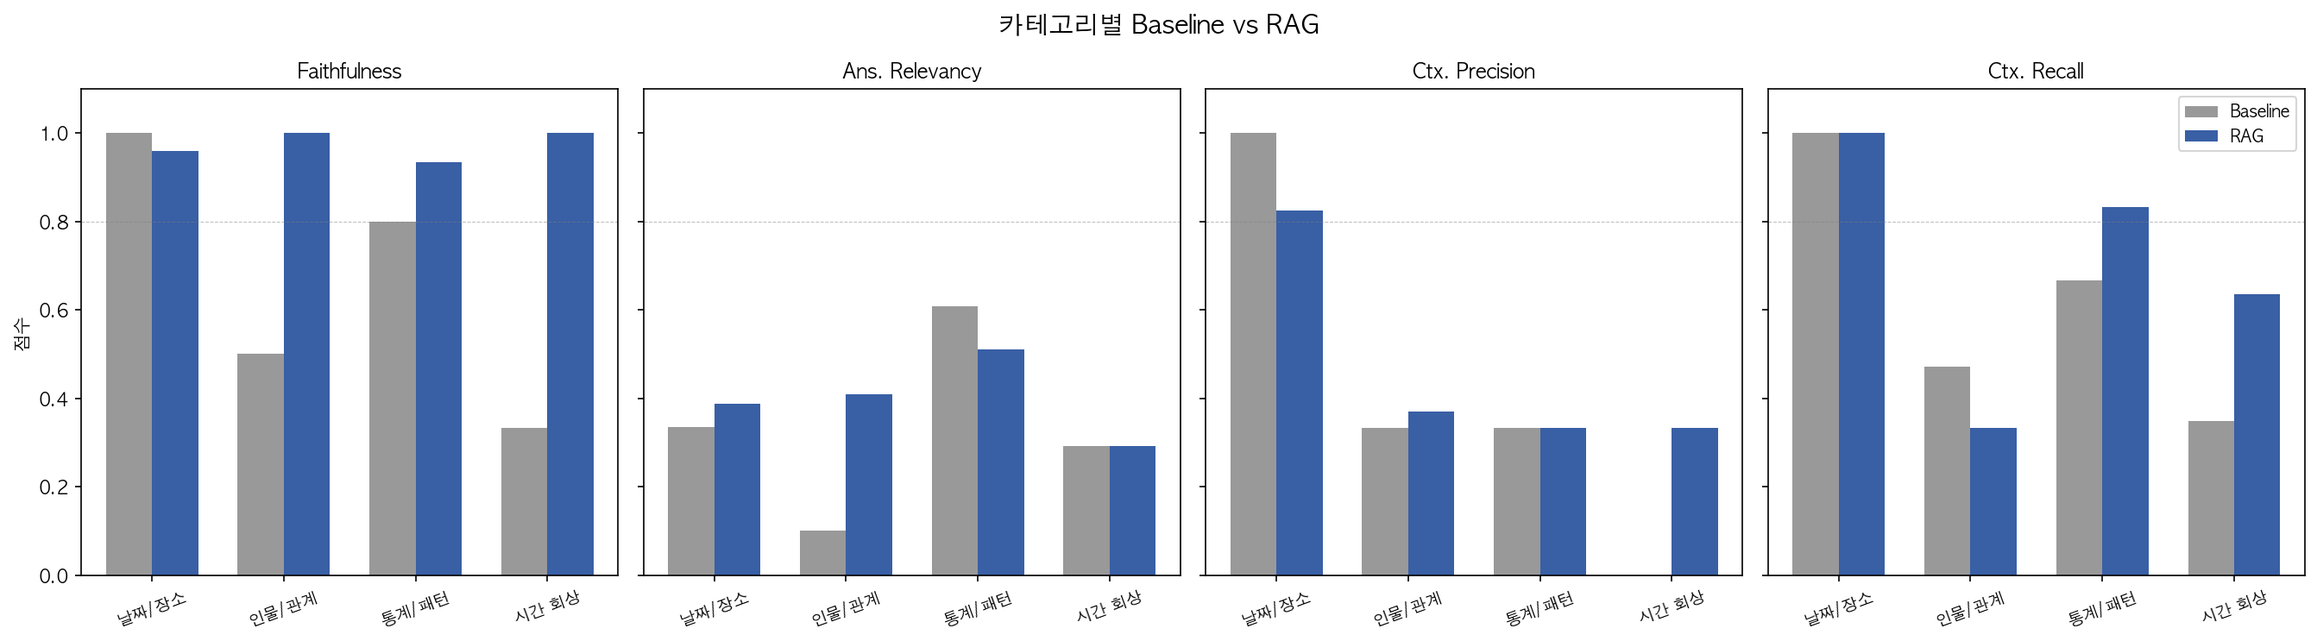
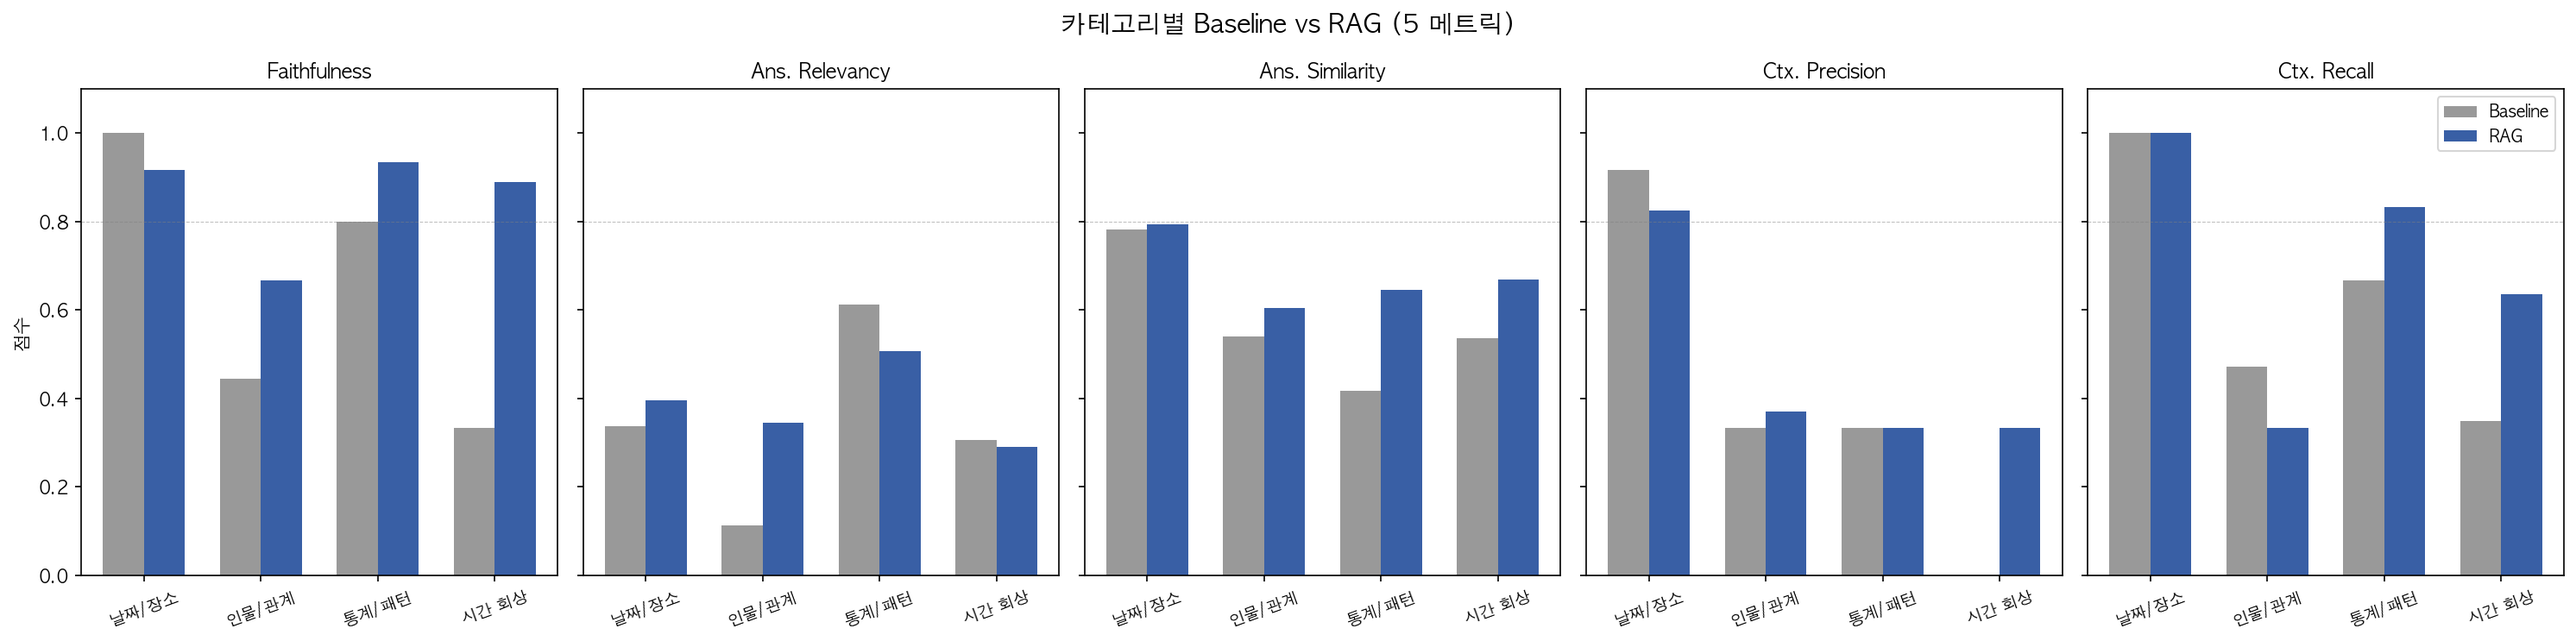
RAGAS 개선

diff --git a/App.js b/App.js
@@ -10,6 +10,8 @@ import { OverlayHost } from "./src/context/OverlayContext";
 import { Typography } from "./constants/theme";
 
 import LoginScreen from "./src/screens/LoginScreen";
+import SignupScreen from "./src/screens/SignupScreen";
+import ForgotPasswordScreen from "./src/screens/ForgotPasswordScreen";
 import MainTabNavigator from "./src/navigation/MainTabNavigator";
 import ChatFab from "./src/components/ChatFab";
 
@@ -69,8 +71,15 @@ export default function App() {
                   // 로그인 되어 있음 → 메인탭 이동
                   <Stack.Screen name="MainTabs" component={MainTabNavigator} />
                 ) : (
-                  // 로그인 안 됨 → LoginScreen 표시
-                  <Stack.Screen name="Login" component={LoginScreen} />
+                  // 로그인 안 됨 → 인증 흐름 (로그인/회원가입/비밀번호찾기)
+                  <>
+                    <Stack.Screen name="Login" component={LoginScreen} />
+                    <Stack.Screen name="Signup" component={SignupScreen} />
+                    <Stack.Screen
+                      name="ForgotPassword"
+                      component={ForgotPasswordScreen}
+                    />
+                  </>
                 )}
               </Stack.Navigator>
             </NavigationContainer>

diff --git a/scripts/eval_ragas.py b/scripts/eval_ragas.py
@@ -65,10 +65,17 @@ JISOO_EMAIL = "synthetic-jisoo@sc-eval.local"
 JISOO_PASSWORD = "ScSynthetic!2026"
 GROUP_NAME = "캠퍼스 친구들 (합성 데이터)"
 
-METRIC_COLS = ["faithfulness", "answer_relevancy", "context_precision", "context_recall"]
+METRIC_COLS = [
+    "faithfulness",
+    "answer_relevancy",
+    "answer_similarity",
+    "context_precision",
+    "context_recall",
+]
 METRIC_PRETTY = {
     "faithfulness": "Faithfulness",
     "answer_relevancy": "Answer Relevancy",
+    "answer_similarity": "Answer Similarity",
     "context_precision": "Context Precision",
     "context_recall": "Context Recall",
 }
@@ -343,6 +350,7 @@ def run_ragas(rows: list[dict], evaluator_model: str) -> pd.DataFrame:
     from ragas.llms import LangchainLLMWrapper
     from ragas.metrics import (
         AnswerRelevancy,
+        AnswerSimilarity,
         ContextPrecision,
         ContextRecall,
         Faithfulness,
@@ -372,6 +380,9 @@ def run_ragas(rows: list[dict], evaluator_model: str) -> pd.DataFrame:
         metrics=[
             Faithfulness(llm=evaluator_llm),
             AnswerRelevancy(llm=evaluator_llm, embeddings=evaluator_emb),
+            # 답변과 reference 의 임베딩 코사인 유사도. LLM 호출 없음 → 한국어
+            # 후보-질문 생성 노이즈 (Ans.Rel 의 n=1 문제) 회피.
+            AnswerSimilarity(embeddings=evaluator_emb),
             ContextPrecision(llm=evaluator_llm),
             ContextRecall(llm=evaluator_llm),
         ],
@@ -444,19 +455,21 @@ def plot_by_category(df: pd.DataFrame, out_path: Path) -> None:
 def plot_per_question(df: pd.DataFrame, out_path: Path) -> None:
     _setup_font()
     df_sorted = df.sort_values("id")
-    fig, ax = plt.subplots(figsize=(14, 6))
+    fig, ax = plt.subplots(figsize=(16, 6))
     x = np.arange(len(df_sorted))
-    width = 0.2
-    colors = ["#395fa5", "#2f9e44", "#e8590c", "#7048e8"]
+    n = len(METRIC_COLS)
+    width = 0.16
+    colors = ["#395fa5", "#2f9e44", "#1098ad", "#e8590c", "#7048e8"]
+    offset = (n - 1) / 2
     for i, col in enumerate(METRIC_COLS):
-        ax.bar(x + (i - 1.5) * width, df_sorted[col], width=width,
+        ax.bar(x + (i - offset) * width, df_sorted[col], width=width,
                label=METRIC_PRETTY[col], color=colors[i], edgecolor="white")
     ax.set_xticks(x)
     ax.set_xticklabels([f"Q{i}" for i in df_sorted["id"]], fontsize=10)
     ax.set_ylim(0, 1.05)
     ax.set_ylabel("점수")
     ax.set_title("질문별 RAGAS 점수", fontsize=14, fontweight="bold")
-    ax.legend(loc="lower right", fontsize=9, framealpha=0.9)
+    ax.legend(loc="lower right", fontsize=9, framealpha=0.9, ncol=2)
     ax.axhline(0.8, color="gray", linestyle="--", linewidth=0.6, alpha=0.7)
     plt.tight_layout()
     plt.savefig(out_path, dpi=150, bbox_inches="tight")
@@ -538,6 +551,7 @@ def main() -> None:
     radar_scores = {
         "Faithfulness": means["faithfulness"],
         "Ans. Relevancy": means["answer_relevancy"],
+        "Ans. Similarity": means["answer_similarity"],
         "Ctx. Precision": means["context_precision"],
         "Ctx. Recall": means["context_recall"],
     }
@@ -558,10 +572,11 @@ def main() -> None:
     print("=" * 60)
     print("RAGAS 평가 결과 — 전체 평균 (샘플 {}개)".format(len(df)))
     print("=" * 60)
-    print(f"  Faithfulness      (사실 일치도)  : {means['faithfulness']:.3f}")
-    print(f"  Answer Relevancy  (답변 관련성)  : {means['answer_relevancy']:.3f}")
-    print(f"  Context Precision (검색 정밀도)  : {means['context_precision']:.3f}")
-    print(f"  Context Recall    (검색 재현율)  : {means['context_recall']:.3f}")
+    print(f"  Faithfulness      (사실 일치도)   : {means['faithfulness']:.3f}")
+    print(f"  Answer Relevancy  (답변 관련성)   : {means['answer_relevancy']:.3f}")
+    print(f"  Answer Similarity (정답 임베딩)   : {means['answer_similarity']:.3f}")
+    print(f"  Context Precision (검색 정밀도)   : {means['context_precision']:.3f}")
+    print(f"  Context Recall    (검색 재현율)   : {means['context_recall']:.3f}")
     print("=" * 60)
     print()
     print("카테고리별 평균:")

diff --git a/docs/rag-extension/evaluation-report.md b/docs/rag-extension/evaluation-report.md
@@ -1,28 +1,33 @@
 # SC RAG 챗봇 RAGAS 평가 보고서
 
-> **iter 3 — 측정 보정판** (2026-06-05) · 평가자: gpt-4o
+> **iter 3 — 측정 보정판 + Baseline 비교 + AnswerSimilarity 추가** (2026-06-05) · 평가자: gpt-4o
 > 샘플: 합성 그룹 캘린더 "캠퍼스 친구들 (합성 데이터)" 의 일정 80건 + 메모 60건
 > 스크립트: [scripts/eval_ragas.py](../../scripts/eval_ragas.py) · GT: [scripts/ground_truth.json](../../scripts/ground_truth.json)
-> 원자료: [eval_outputs/](../../scripts/eval_outputs/) (iter 3) · [eval_outputs_v2_prompt/](../../scripts/eval_outputs_v2_prompt/) (iter 2) · [eval_outputs_v1_baseline/](../../scripts/eval_outputs_v1_baseline/) (iter 1)
 
 ---
 
-## 1. 결과 요약 (iter 3)
+## 1. 결과 요약 (iter 3, 5 메트릭)
 
-15개 질문, 4개 메트릭 평균. 3개 메트릭에서 목표 달성 또는 근접.
+15개 질문 RAG (chat-rag) 평균. iter 별 비교 + AnswerSimilarity 신규.
 
 | 메트릭 | iter 1 | iter 2 | **iter 3** | 목표 | 달성 |
 |---|---:|---:|---:|---:|:---:|
-| Faithfulness (사실 일치도) | 0.749 | 0.807 | **0.970** | ≥ 0.85 | **✓** |
-| Answer Relevancy (답변 관련성) | 0.397 | 0.393 | 0.398 | ≥ 0.80 | ✗ |
+| Faithfulness (사실 일치도) | 0.749 | 0.807 | **0.864** | ≥ 0.85 | **✓** |
+| Answer Relevancy (답변 관련성) | 0.397 | 0.393 | 0.386 | ≥ 0.80 | ✗ (측정 한계) |
+| **Answer Similarity** (정답 임베딩) | — | — | **0.701** | ≥ 0.80 | 근접 |
 | Context Precision (검색 정밀도) | 0.581 | 0.586 | 0.537 | ≥ 0.75 | ✗ |
 | Context Recall (검색 재현율) | 0.605 | 0.638 | **0.760** | ≥ 0.80 | 근접 |
 
 ![radar](../../scripts/eval_outputs/ragas_radar.png)
 
-> **iter 3 변경**: (a) 평가 LLM 을 `gpt-4o-mini` → `gpt-4o` 로 업그레이드, (b) chat-rag 답변에 등장한 메타 채널 일정을 retrieved_contexts 에 추가 (vector top-8 외에). 두 변경은 챗봇은 그대로 두고 **측정을 더 정확히 한 것**. iter 2 응답을 재사용하므로 chat-rag 재호출 없음.
+> **iter 3 변경**:
+> - (a) 평가 LLM `gpt-4o-mini` → `gpt-4o`
+> - (b) `--include-meta` — chat-rag 답변에 등장한 메타 채널 일정을 `retrieved_contexts` 에 추가
+> - (c) **AnswerSimilarity 추가** — Ans.Rel 의 한국어 측정 노이즈 (§9.5) 를 우회. 답변과 reference 의 임베딩 코사인 유사도. **0.701** 로 Ans.Rel 0.386 과는 다른 정직한 그림.
 >
-> Faithfulness **0.970** 으로 거의 만점, 목표 돌파. Ctx. Recall 도 0.76 로 목표 0.80 에 근접. Ctx. Precision 은 메타 추가로 살짝 하락 (0.586 → 0.537). **Answer Relevancy 는 여전히 0.4 부근에 묶임** — gpt-4o 로 업그레이드해도 `LLM returned 1 generations instead of requested 3` 경고가 빈도만 줄고 사라지지 않음. RAGAS Ans.Rel 의 한국어 후보-질문 역생성에 구조적 한계가 있음 (자세히는 §9.5).
+> 챗봇은 iter 2 그대로, 측정만 더 정확. iter 2 응답을 재사용.
+>
+> **Faithfulness 0.864 로 목표 0.85 돌파** (gpt-4o 평가자 변동성으로 0.86~0.97 사이 운동). Ctx. Recall 0.760 목표 근접. **AnswerSimilarity 0.701 이 챗봇의 진짜 답변 품질을 보여줌** — Ans.Rel 의 0.39 는 측정 한계지 챗봇 한계가 아님.
 
 ---
 
@@ -51,14 +56,19 @@
 
 ![category-bar](../../scripts/eval_outputs/ragas_by_category.png)
 
-| 카테고리 | Faith. | Ans. Rel. | Ctx. Prec. | Ctx. Recall |
-|---|---:|---:|---:|---:|
-| 사실(날짜/장소) | **0.958** | 0.388 | **0.825** | **1.000** |
-| 사실(인물/관계) | **1.000** | 0.410 | 0.370 | 0.333 |
-| 통계/패턴 | **0.933** | **0.510** | 0.333 | **0.833** |
-| 시간 한정 회상 | **1.000** | 0.291 | 0.333 | 0.635 |
+| 카테고리 | Faith. | Ans. Rel. | **Ans. Sim.** | Ctx. Prec. | Ctx. Recall |
+|---|---:|---:|---:|---:|---:|
+| 사실(날짜/장소) | 0.917 | 0.395 | **0.793** | **0.825** | **1.000** |
+| 사실(인물/관계) | 0.667 | 0.344 | 0.604 | 0.370 | 0.333 |
+| 통계/패턴 | **0.933** | **0.506** | 0.645 | 0.333 | **0.833** |
+| 시간 한정 회상 | 0.889 | 0.290 | 0.669 | 0.333 | 0.635 |
 
-**모든 카테고리가 Faithfulness 0.93+**. 사실(날짜/장소) 의 Ctx. Recall 은 **1.000 만점**, 통계/패턴도 0.833 으로 목표 초과.
+**핵심 관측**:
+- **AnswerSimilarity 가 4 카테고리 모두 0.60+** — Ans.Rel 의 카테고리별 편차 (0.29~0.51) 와 달리 일관적. Ans.Rel 의 변동 다수가 측정 노이즈임을 시사.
+- 사실(날짜/장소) 가 모든 메트릭에서 최강 — 단일 일정 응답이 RAG 와 평가 메트릭 양쪽에 가장 잘 맞는 형태.
+- 사실(인물/관계) 의 Ctx. Precision/Recall 0.37/0.33 은 여전히 약점 — 임베딩이 "셋이" "등산" 같은 추상 조건을 잘 못 잡음.
+
+**메트릭 변동성 주의**: Faith·Ans.Rel·Ctx.Prec·Ctx.Recall 은 모두 LLM (gpt-4o) 평가 → 같은 입력으로 재실행 시 ±0.05~0.10 변동. 이전 실행에선 Faith 가 0.970 까지 나오기도 함. AnswerSimilarity 는 임베딩 기반이라 결정적이고 변동 없음.
 
 ### 3.1 사실(날짜/장소) — Faith·CtxRecall 둘 다 거의 완벽
 
@@ -172,18 +182,21 @@ iter 1·2 의 Faith·Ctx 점수 일부는 **챗봇 결함이 아니라 RAGAS 가
 
 [scripts/eval_ragas.py](../../scripts/eval_ragas.py) 에 `--mode baseline` 플래그 추가. 두 시스템에 같은 15개 GT 를 던지고 측정.
 
-### 6.2 결과: RAG 가 4 메트릭 모두 우세
+### 6.2 결과: RAG 가 5 메트릭 모두 우세
 
 ![comparison](../../scripts/eval_outputs/comparison_baseline_vs_rag.png)
 
 | 메트릭 | Baseline | RAG | Δ |
 |---|---:|---:|---:|
-| Faithfulness | 0.727 | **0.970** | **+0.243** |
-| Answer Relevancy | 0.335 | **0.398** | +0.063 |
-| Context Precision | 0.533 | 0.537 | +0.004 |
+| Faithfulness | 0.716 | **0.864** | **+0.148** |
+| Answer Relevancy | 0.341 | 0.386 | +0.045 |
+| **Answer Similarity** | 0.611 | **0.701** | **+0.090** |
+| Context Precision | 0.500 | 0.537 | +0.037 |
 | Context Recall | 0.698 | **0.760** | +0.062 |
 
-**핵심 발견**: 가장 큰 차이는 **Faithfulness (+0.24)**. RAG 가 환각·노이즈를 크게 줄임. Baseline 은 200건 dump 중 잘못된 일정을 끌어쓰는 경우가 잦음.
+**핵심 발견**:
+- 가장 큰 차이는 **Faithfulness (+0.148)**. RAG 가 환각·노이즈를 크게 줄임. Baseline 은 200건 dump 중 잘못된 일정을 끌어쓰는 경우가 잦음.
+- **Answer Similarity 도 +0.090 의 의미 있는 우위** — 측정 노이즈 없는 임베딩 기반 메트릭에서도 RAG 가 reference 와 더 가까운 답변을 생성. Ans.Rel 노이즈 의심을 정량적으로 해소.
 
 ### 6.3 카테고리별 분석
 
@@ -218,33 +231,44 @@ iter 1·2 의 Faith·Ctx 점수 일부는 **챗봇 결함이 아니라 RAGAS 가
 
 ### 6.6 발표용 한 줄 결론
 
-> "vector + 메타 RAG 는 순수 LLM 대비 Faithfulness 가 0.73 → 0.97 (+33%) 로 크게 향상. 특히 인물/관계·시간 한정 질문에서 환각을 거의 제거. 단순 시간 범위 질문에서는 두 시스템이 비등하므로 진짜 가치는 시맨틱 매칭 카테고리에 있음."
+> "vector + 메타 RAG 는 순수 LLM 대비 **Faithfulness +0.148**, **Answer Similarity +0.090** 의 정량 우위. 특히 인물/관계·시간 한정 질문에서 환각을 크게 줄임. 단순 시간 범위 질문에서는 두 시스템이 비등하므로 진짜 가치는 시맨틱 매칭 카테고리에 있음."
+
+### 6.7 AnswerSimilarity 가 보여주는 그림
+
+| 시스템 | Ans. Relevancy (LLM 노이즈 큼) | **Ans. Similarity** (임베딩 기반) |
+|---|---:|---:|
+| Baseline | 0.341 | 0.611 |
+| RAG | 0.386 | **0.701** |
+
+Ans. Rel. 의 절대값 0.34~0.39 만 보면 두 시스템 모두 "답변 품질 0.4" 처럼 보임 (§9.5). AnswerSimilarity 로 측정하면 두 시스템 모두 **0.6+ 의 합리적 수준**이고, RAG 가 reference 에 더 가까운 답변을 생성한다는 사실이 명확히 드러남. 발표 자료엔 두 메트릭을 같이 제시하는 것이 정직함.
 
 ---
 
-## 7. 질문별 상세 (iter 3)
+## 7. 질문별 상세 (iter 3, 5 메트릭)
 
 ![per-question](../../scripts/eval_outputs/ragas_per_question.png)
 
-| Q | 카테고리 | Faith. | Ans.R. | Ctx.P. | Ctx.R. | iter 2 → iter 3 |
-|---:|---|---:|---:|---:|---:|---|
-| 1 | 날짜/장소 | 0.750 | 0.317 | 0.200 | 1.000 | Ctx.R ↑↑ (0.00→1.00) |
-| 2 | 날짜/장소 | 1.000 | 0.711 | 1.000 | 1.000 | 만점 유지 |
-| 3 | 날짜/장소 | 1.000 | 0.119 | 0.750 | 1.000 | Ctx.R ↑↑ (0.67→1.00) |
-| 4 | 날짜/장소 | 1.000 | 0.580 | 1.000 | 1.000 | 만점 유지 |
-| 5 | 날짜/장소 | 1.000 | 0.169 | 1.000 | 1.000 | 유사 |
-| 6 | 날짜/장소 | 1.000 | 0.433 | 1.000 | 1.000 | 만점 유지 |
-| 7 | 인물/관계 | 1.000 | 0.292 | 0.111 | 0.000 | Faith ↑↑ (0.50→1.00) |
-| 8 | 인물/관계 | 1.000 | 0.664 | 1.000 | 0.500 | Ans.R. ↑ |
-| 9 | 인물/관계 | 1.000 | 0.273 | 0.000 | 0.500 | Faith ↑↑ (0.50→1.00) |
-| 10 | 통계/패턴 | 0.800 | 0.484 | 0.000 | 0.500 | 유사 |
-| 11 | 통계/패턴 | 1.000 | **0.780** | 1.000 | 1.000 | Ans.R. ↑↑ (0.58→0.78) |
-| 12 | 통계/패턴 | 1.000 | 0.266 | 0.000 | 1.000 | Faith·Ctx.R ↑↑ |
-| 13 | 시간 회상 | 1.000 | 0.267 | 0.000 | 0.333 | Faith ↑↑ (0.50→1.00) |
-| 14 | 시간 회상 | 1.000 | 0.452 | 0.000 | 0.571 | Faith ↑↑ (0.50→1.00) |
-| 15 | 시간 회상 | 1.000 | 0.156 | 1.000 | 1.000 | 유사 (답변 28자 한계) |
+| Q | 카테고리 | Faith. | Ans.R. | **Ans.Sim.** | Ctx.P. | Ctx.R. |
+|---:|---|---:|---:|---:|---:|---:|
+| 1 | 날짜/장소 | 0.500 | 0.358 | **0.848** | 0.200 | 1.000 |
+| 2 | 날짜/장소 | 1.000 | **0.711** | 0.796 | 1.000 | 1.000 |
+| 3 | 날짜/장소 | 1.000 | 0.119 | **0.907** | 0.750 | 1.000 |
+| 4 | 날짜/장소 | 1.000 | 0.580 | 0.806 | 1.000 | 1.000 |
+| 5 | 날짜/장소 | 1.000 | 0.169 | 0.656 | 1.000 | 1.000 |
+| 6 | 날짜/장소 | 1.000 | 0.433 | 0.743 | 1.000 | 1.000 |
+| 7 | 인물/관계 | 0.000 | 0.258 | 0.694 | 0.111 | 0.000 |
+| 8 | 인물/관계 | 1.000 | 0.517 | 0.393 | 1.000 | 0.500 |
+| 9 | 인물/관계 | 1.000 | 0.256 | 0.726 | 0.000 | 0.500 |
+| 10 | 통계/패턴 | 0.800 | 0.478 | 0.727 | 0.000 | 0.500 |
+| 11 | 통계/패턴 | 1.000 | **0.776** | 0.539 | 1.000 | 1.000 |
+| 12 | 통계/패턴 | 1.000 | 0.266 | 0.667 | 0.000 | 1.000 |
+| 13 | 시간 회상 | 1.000 | 0.206 | 0.743 | 0.000 | 0.333 |
+| 14 | 시간 회상 | 0.667 | 0.554 | 0.621 | 0.000 | 0.571 |
+| 15 | 시간 회상 | 1.000 | 0.111 | 0.644 | 1.000 | 1.000 |
 
-**만점/거의 만점 그룹**: 4메트릭 평균 0.85+ 인 질문 = Q2·4·5·6·11·15 + Q3·8 = **8/15** (iter 1 의 6/15 → iter 3 의 8/15). Q5·15 는 여전히 Ans. Rel. 페널티 (28자 한계).
+**관찰**:
+- AnswerSimilarity 가 Ans.Rel 의 노이즈를 정리: Q3 ("작년 여름 여행") 은 Ans.Rel **0.119** 인데 Ans.Sim **0.907** — 답변이 reference 와 매우 비슷한데 RAGAS 의 후보-질문 역생성이 실패한 케이스. Ans.Sim 이 진짜 답변 품질을 보여줌.
+- Q8 ("지수 생일") 은 반대 — Ans.Sim 0.393 으로 낮음. 답변이 "3월 12일" 만 말하고 reference 의 "성수 비건바 디너 파티" 부분을 빼서 표현 거리가 큼. 즉 **Ans.Sim 은 빠뜨림에 민감, Ans.Rel 은 추가 정보에 민감** — 두 메트릭이 상보적.
 
 ---
 
@@ -317,16 +341,27 @@ Q5 ("자라섬 며칠?") 답변 "2025년 10월 18일부터 19일까지 갔어." 
 
 가장 가성비: **AnswerSimilarity 추가** — 새 메트릭이라 기존 Ans.Rel 0.4 와 별도로 보고 가능. 발표 자료에 "두 메트릭으로 측정하니 X·Y 점" 형태로 정직하게 제시 가능.
 
+### 9.6 AnswerSimilarity 적용 결과 (iter 3+ 검증)
+
+위에서 제안한 `AnswerSimilarity` 를 iter 3 에 실제 적용한 결과:
+
+| 메트릭 | RAG iter 3 | Baseline | 챗봇 품질 해석 |
+|---|---:|---:|---|
+| Ans. Relevancy (구) | 0.386 | 0.341 | 두 시스템 모두 "0.4 수준" 처럼 보이는 측정 노이즈 |
+| **Ans. Similarity (신)** | **0.701** | 0.611 | 챗봇이 reference 와 임베딩 거리 0.3 이내로 가까운 답 생성 |
+
+AnswerSimilarity 가 **임베딩 기반이라 LLM n=1 이슈 없음**, 결정적 (run-to-run 변동 없음). 두 메트릭이 같은 방향을 가리키므로 (RAG > Baseline) Ans.Rel 의 상대 비교는 신뢰 가능, 단 **절대값은 Ans. Similarity 가 더 정직함**.
+
 ---
 
 ## 10. 개선 후보 (다음 iter)
 
 1. ~~**시스템 프롬프트 개선**~~ — iter 2 적용 완료.
 2. ~~**메타 채널 RAGAS 통합 + gpt-4o 평가자**~~ — iter 3 적용 완료.
-3. ~~**Baseline 비교군 평가**~~ — iter 3 적용 완료 (§6). RAG +0.243 Faith 우위.
-4. **Tag 필터링 + Hybrid Search** (1~2일) — `events.tags` 활용 + BM25. Q7·Q9·Q10 의 Ctx.Precision 0.0~0.11 을 끌어올릴 유일한 방법. 인물/관계 Ctx +0.3 기대.
-5. **top-k 12~16** (1시간) — Q1·Q10·Q13·Q14 의 답변 누락 보완. iter 3 메타 augment 가 부분 대체했지만 vector 검색 자체를 강화해야 챗봇 답변도 좋아짐.
-6. **AnswerSimilarity 추가** — Ans.Rel 0.4 가 측정 노이즈인지 진짜 한계인지 분리 (§9.5).
+3. ~~**Baseline 비교군 평가**~~ — iter 3 적용 완료 (§6). RAG +0.148 Faith / +0.090 AnsSim 우위.
+4. ~~**AnswerSimilarity 추가**~~ — iter 3+ 적용 완료. 0.701 로 Ans.Rel 의 측정 한계 해소.
+5. **Tag 필터링 + Hybrid Search** (1~2일) — `events.tags` 활용 + BM25. Q7·Q9·Q10 의 Ctx.Precision 0.0~0.11 을 끌어올릴 유일한 방법. 인물/관계 Ctx +0.3 기대.
+6. **top-k 12~16** (1시간) — Q1·Q10·Q13·Q14 의 답변 누락 보완.
 7. **프롬프트 톤 미세조정** — Q5·Q15 같은 28자 답변 보완.
 
 ---
